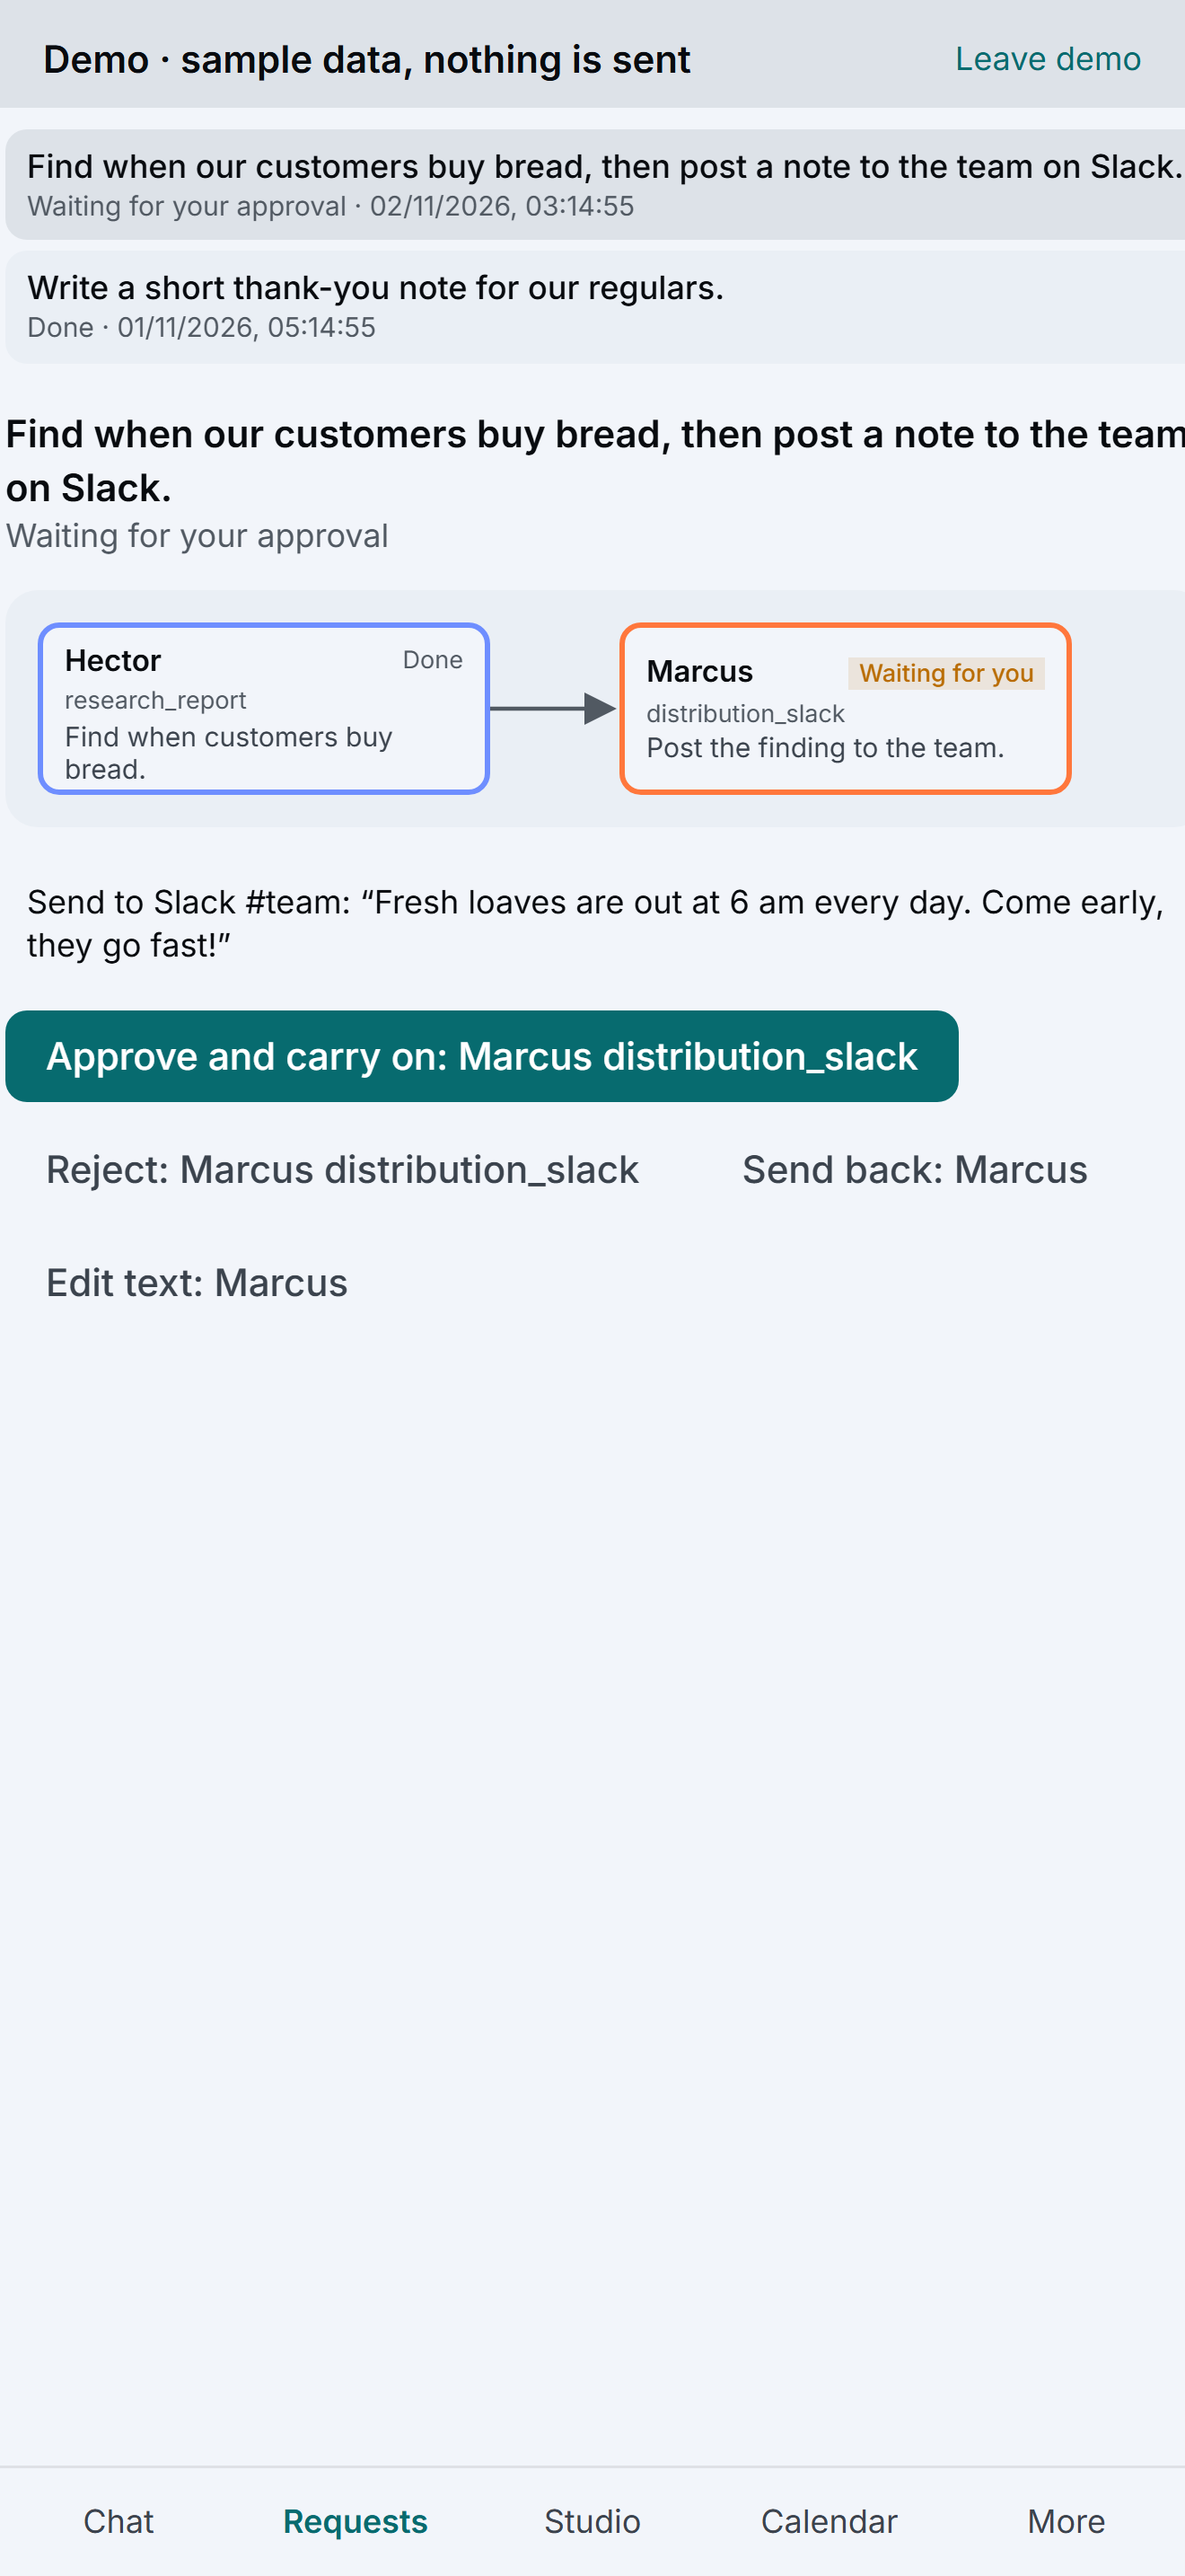
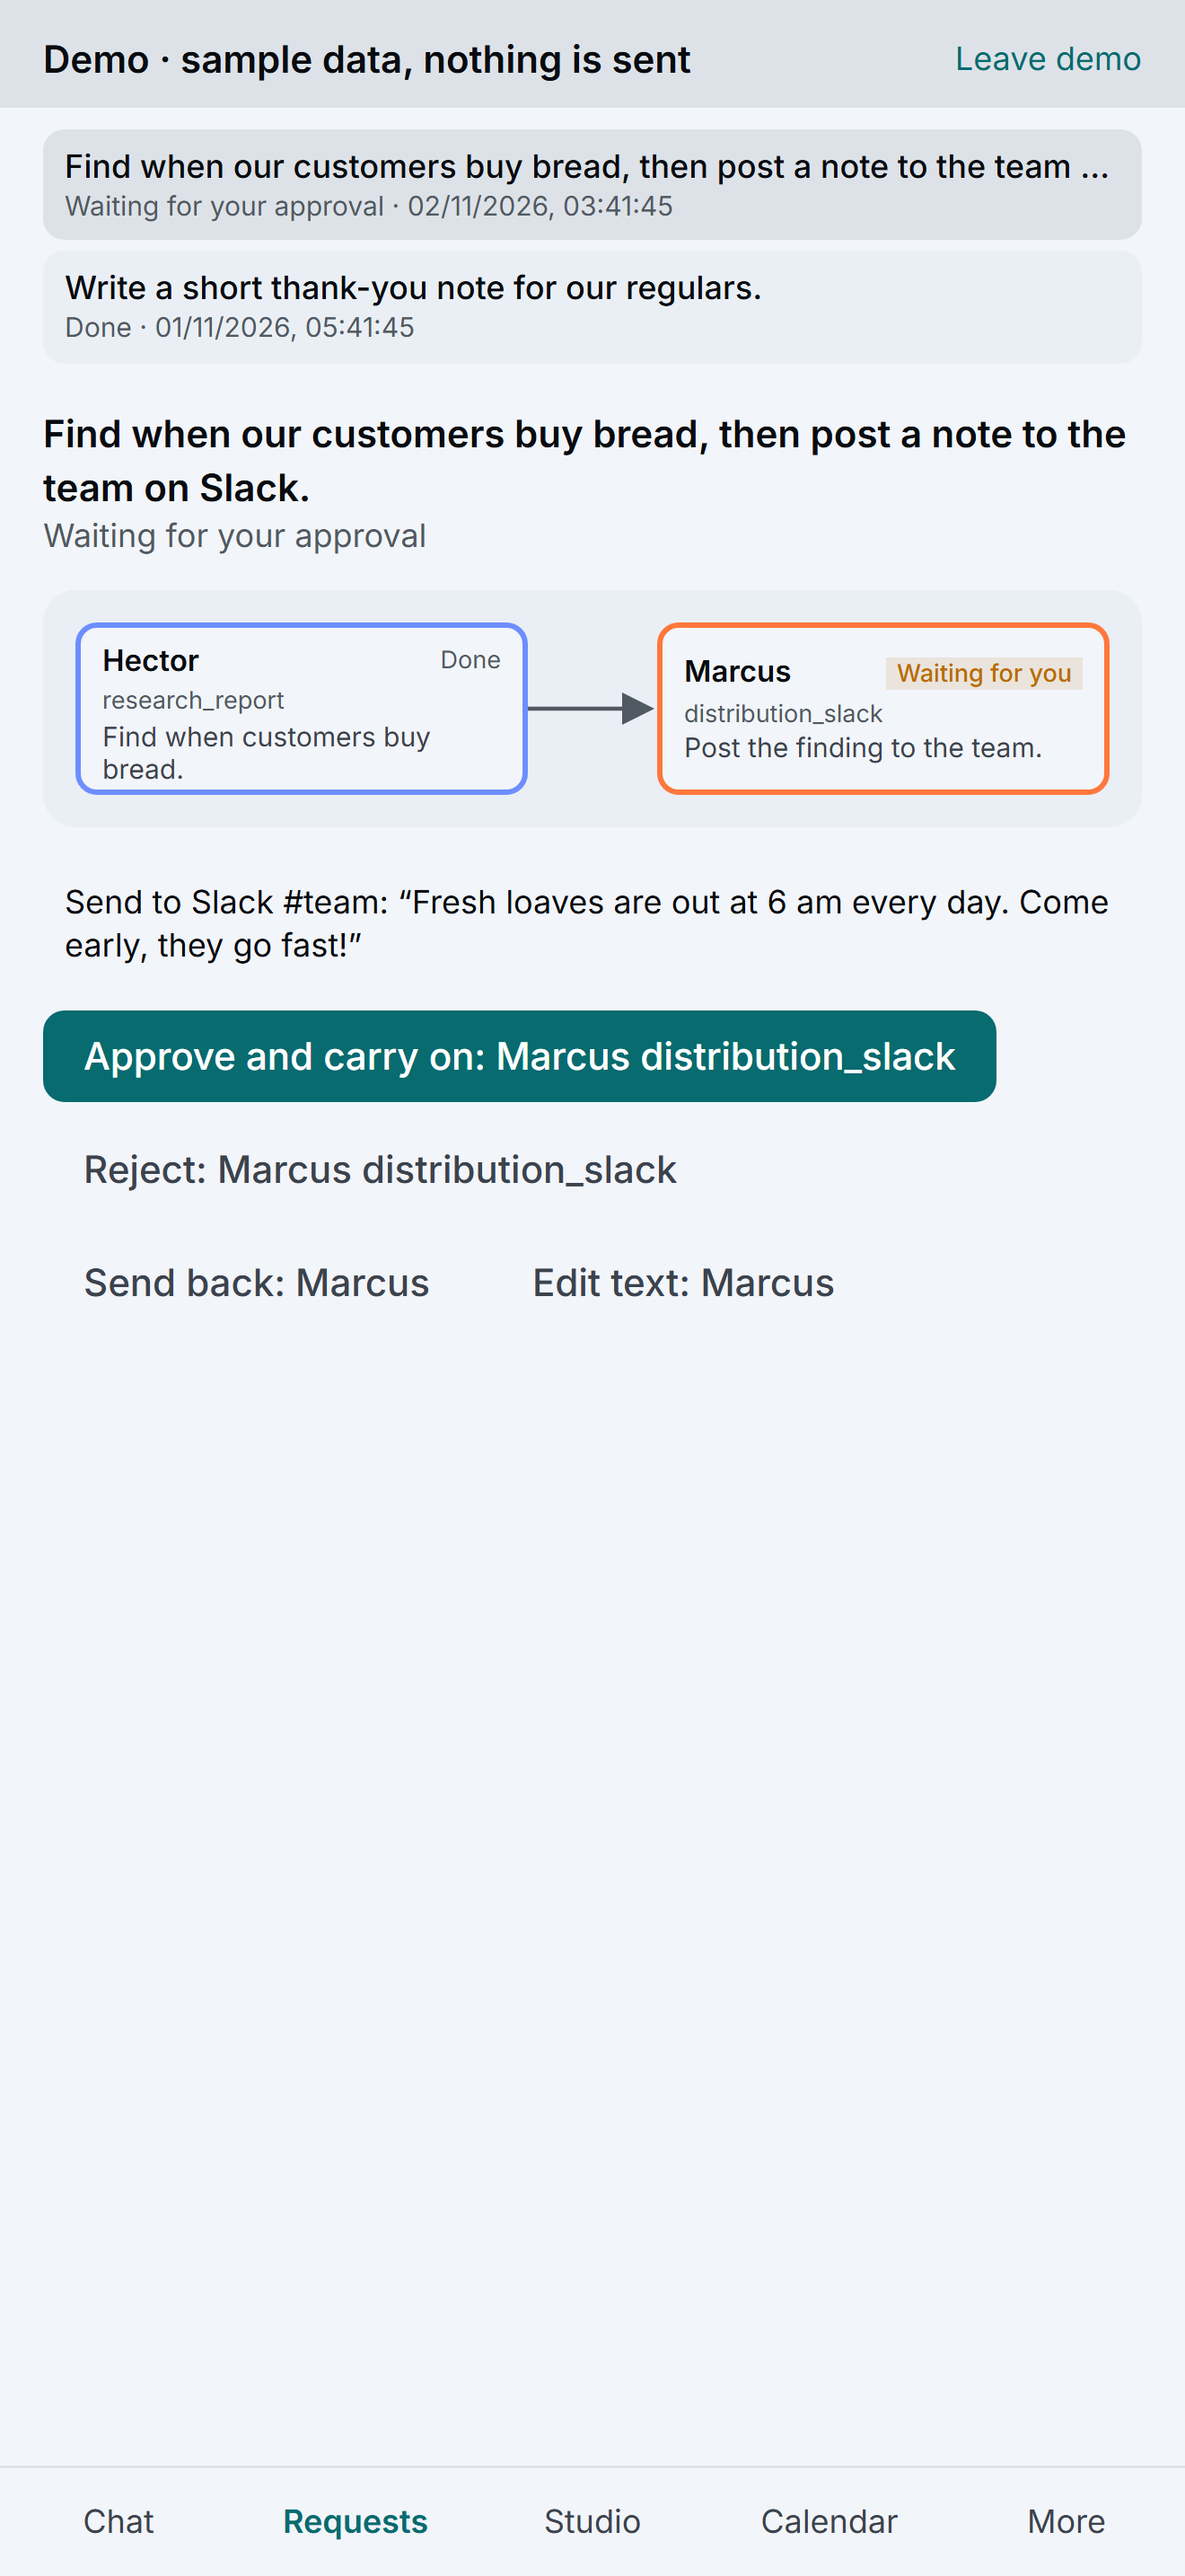
fix(phone): the Requests screen fits the phone's width
The board's grid had no column template at phone width, and a grid item
keeps its content's width, so a long request title widened the one
column past the screen (462pt on 440pt) and the plan map with it. The
grid now has grid-cols-1 and the list min-w-0: titles truncate, the
board stays 440pt. Store screenshots retaken.

Claude-Session: https://claude.ai/code/session_01D179dfb4w8hisHDwgjwngz

diff --git a/src/test/mobile/RequestsReview.test.tsx b/src/test/mobile/RequestsReview.test.tsx
@@ -73,3 +73,16 @@ describe("checking the work on the phone's Requests", () => {
     expect(screen.getByRole('button', { name: /Reject: Alphonso/ })).toBeTruthy();
   });
 });
+
+// Phone phase 3 part C: at phone width the board's one column must not grow past the screen (a
+// grid item's min-width is its content's by default, so a long title pushed it 22pt wider).
+describe('the Requests board fits a phone', () => {
+  it('its grid has a shrinkable single column and the list may shrink', () => {
+    const long = { ...request([hector, marcus]), text: 'Find when our customers buy bread, then post a note to the team on Slack and tell everyone about it' };
+    render(<BoardDataProvider value={phoneData(long)}><RequestsScreen /></BoardDataProvider>);
+    const list = screen.getByRole('list', { name: 'Jose requests' });
+    const grid = list.parentElement as HTMLElement;
+    expect(grid.className).toMatch(/(^|\s)grid-cols-1(\s|$)/);
+    expect(list.className).toMatch(/(^|\s)min-w-0(\s|$)/);
+  });
+});

diff --git a/src/components/jose/JoseRequestsBoard.tsx b/src/components/jose/JoseRequestsBoard.tsx
@@ -188,8 +188,10 @@ export function JoseRequestsBoard({ selectedRequestId }: { selectedRequestId?: s
   };
 
   return (
-    <div className="grid gap-4 md:grid-cols-[260px_1fr]">
-      <ul className="space-y-1" aria-label="Jose requests">
+    // grid-cols-1 and min-w-0: on a phone the one column stays the screen's width, so long titles
+    // truncate instead of widening it (phone phase 3 part C).
+    <div className="grid grid-cols-1 gap-4 md:grid-cols-[260px_1fr]">
+      <ul className="min-w-0 space-y-1" aria-label="Jose requests">
         {requests.length === 0 && <li className="text-xs text-(--text-3)">No requests yet. Ask Jose something in Chat.</li>}
         {/* A project's requests together under its name (Jose phase 7). */}
         {groupRequests(requests).map((entry) => entry.group ? (

diff --git a/docs/CHANGELOG.md b/docs/CHANGELOG.md
@@ -27,6 +27,7 @@ Older entries name files as they were at that release. Many `.js`/`.jsx` files h
 - Phase 3 part C (2026-11-02): **Try a demo** on the phone's sign-in screen shows sample requests, chat and a Miya Studio project, marked as a demo on every screen; it sends nothing and keeps nothing on the phone.
 - Phase 3 part C (2026-11-02): **Delete my account** in the phone's More (Apple requires it): after Face ID, the relay deletes the sign-in and the pairing records of every device on that account, and the phone forgets its pairing and keys. Needs the relay redeployed.
 - Phase 3 part C (2026-11-02): the App Store listing is ready for the owner to submit (`docs/store/`: store text, privacy answers, 6.9-inch iPhone screenshots from the demo, a submit checklist and the open questions), with a privacy policy and support page in `site/`, published by GitHub Pages.
+- Phase 3 part C (2026-11-02): the phone's Requests screen no longer runs past the right edge: a long request title truncates in the list instead of widening the board.
 - Phase 3 part B (2026-11-02): Teams, Skills, Settings and Connectors on the phone, under More. Teams: see each saved team's steps and run one with a typed job. Skills: each agent's skills with their record, and refused skill files with why. Settings: Approval Mode, what asks first, Allow paid models, the monthly limit, waiting-request days, Zero-Cost Mode, each agent's model (from what the computer offers) and this phone's notifications, including Boardroom escalations; anything that makes Alphonso ask less or spend more needs Face ID or the fingerprint, and the computer refuses it otherwise. Connectors: status, last check and the on/off switch. No key, password or price is typed on the phone. Checked end to end over the real relay: Zero-Cost Mode off is refused until confirmed, and a team run starts a request.
 - Phase 3 part A (2026-11-02): Memory, Projects and Boardroom on the phone, under More. Memory: Echo's newest 50 decisions, a search the computer answers, and his clean-up with Apply / Dismiss. Projects: Start a run, open its latest run on the Requests board, and New project with the computer's questions. Boardroom: threads, the last 30 messages with Show earlier, posting with @mentions, new threads, Conclude / Distribute / Creative brief, Acknowledge an escalation, and Reveal a hidden message after Face ID or the fingerprint. Only escalations notify the phone. Every screen shows when the computer is offline and turns its buttons off. On the desktop nothing changes: Boardroom's reply loop and thread actions moved into `boardroomReplies.ts`, which both use. Checked end to end over the real relay (`phoneEndToEnd.test.js`): a Boardroom message from the phone gets the agent's reply, a memory search returns a saved decision, and a clean-up Apply based on an old set is refused.
 - Checked end to end over the real relay: pairing, a chat message, approving a step (once), Stop, and "offline since".

diff --git a/docs/governance/DEFERRED_WORK.md b/docs/governance/DEFERRED_WORK.md
@@ -2,10 +2,11 @@
 
 Rule 12 / Rule 11. This register survives the session. Future agents resume from here.
 
-## 2026-11-02: The phone's Requests screen runs past the right edge
+## 2026-11-02: The phone's Requests screen runs past the right edge (overflow fixed 2026-11-02; task names open)
 
 - **What happened:** in the 6.9-inch store screenshots (phone phase 3 part C, `docs/store/screenshots/iphone-6.9/2-requests.png`) a long request title in the list and the plan map run past the screen's right edge at 440 points wide. It is the real Requests screen (the desktop board in one column, `src/mobile/screens/Requests.tsx`), not the demo; the step boxes also show raw task types (`distribution_slack`).
-- **To do:** wrap the list's titles, fit the plan map to the width, and show the task types in plain words on the phone; retake the screenshots after.
+- **Fixed (overflow):** the board's grid had no column at phone width and grid items keep their content's width, so the long title widened the column (462pt on a 440pt screen). `JoseRequestsBoard.tsx` now uses `grid-cols-1` and `min-w-0` on the list; measured 440 of 440 in a phone-width browser, screenshots retaken.
+- **Still open:** the step boxes and buttons show raw task types (`distribution_slack`); show them in plain words.
 
 ## 2026-11-02: Cloud Voice on AWS has no client left (owner decides)
 
